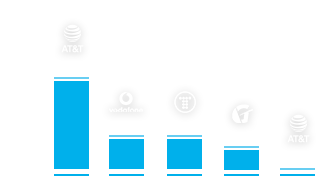
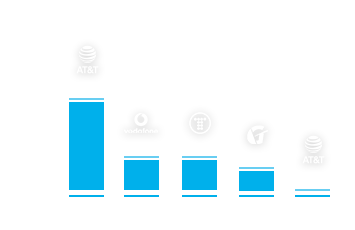
graph change

diff --git a/src/components/headers/shared/Analytics.scss b/src/components/headers/shared/Analytics.scss
@@ -1,21 +1,24 @@
 .chart_wrapper {
   display: flex;
+  height: 100%;
+  padding: 0 10px;
+
   .charts {
     display: flex;
-    padding: 10px;
     text-align: center;
     align-items: center;
     flex-flow: column;
-    justify-content: flex-end;
+
     .chart_images {
       position: relative;
-      height: 100%;
       display: flex;
       justify-content: center;
       align-items: center;
+      padding-bottom: 10px;
     }
+    
     .chart_names {
-      font-family: 'omnes_att_iimedium';
+      font-family: $omnes-medium;
       font-size: 13px;
       color: rgb(255, 255, 255);
       text-transform: uppercase;

diff --git a/src/components/headers/simsOverviewHeader/simsOverviewAnalytics/SimsOverviewAnalytics.js b/src/components/headers/simsOverviewHeader/simsOverviewAnalytics/SimsOverviewAnalytics.js
@@ -13,7 +13,7 @@ const SimsOverviewAnalytics = () => {
     <div className={styles.chart_wrapper}>
     <div className={styles.charts} style={{ width: '30%' }}>
       <div className={styles.chart_images}><img src={status} alt="Status" /></div>
-      <div className={styles.chart_names}>Inventory by Status</div>
+      <div className={styles.chart_names}>Inventory Status</div>
     </div>
     <div className={styles.charts} style={{ width: '35%' }}>
       <div className={styles.chart_images}><img src={inventory} alt="Inventory" /></div>

diff --git a/src/components/headers/headerLayout/desktop/Header.scss b/src/components/headers/headerLayout/desktop/Header.scss
@@ -12,16 +12,15 @@
 
 .upper_header {
   width: 100%;
-  height: 85px;
+  height: 75px;
   padding: 20px 10px 10px 20px;
   z-index: 10;
 }
 
 .lower_header {
-  position: absolute;
-  bottom: 0;
+  position: relative;
   width: 100%;
-  padding: 20px 20px 20px 20px;
+  height: 285px;
   z-index: -10;
 }
 
